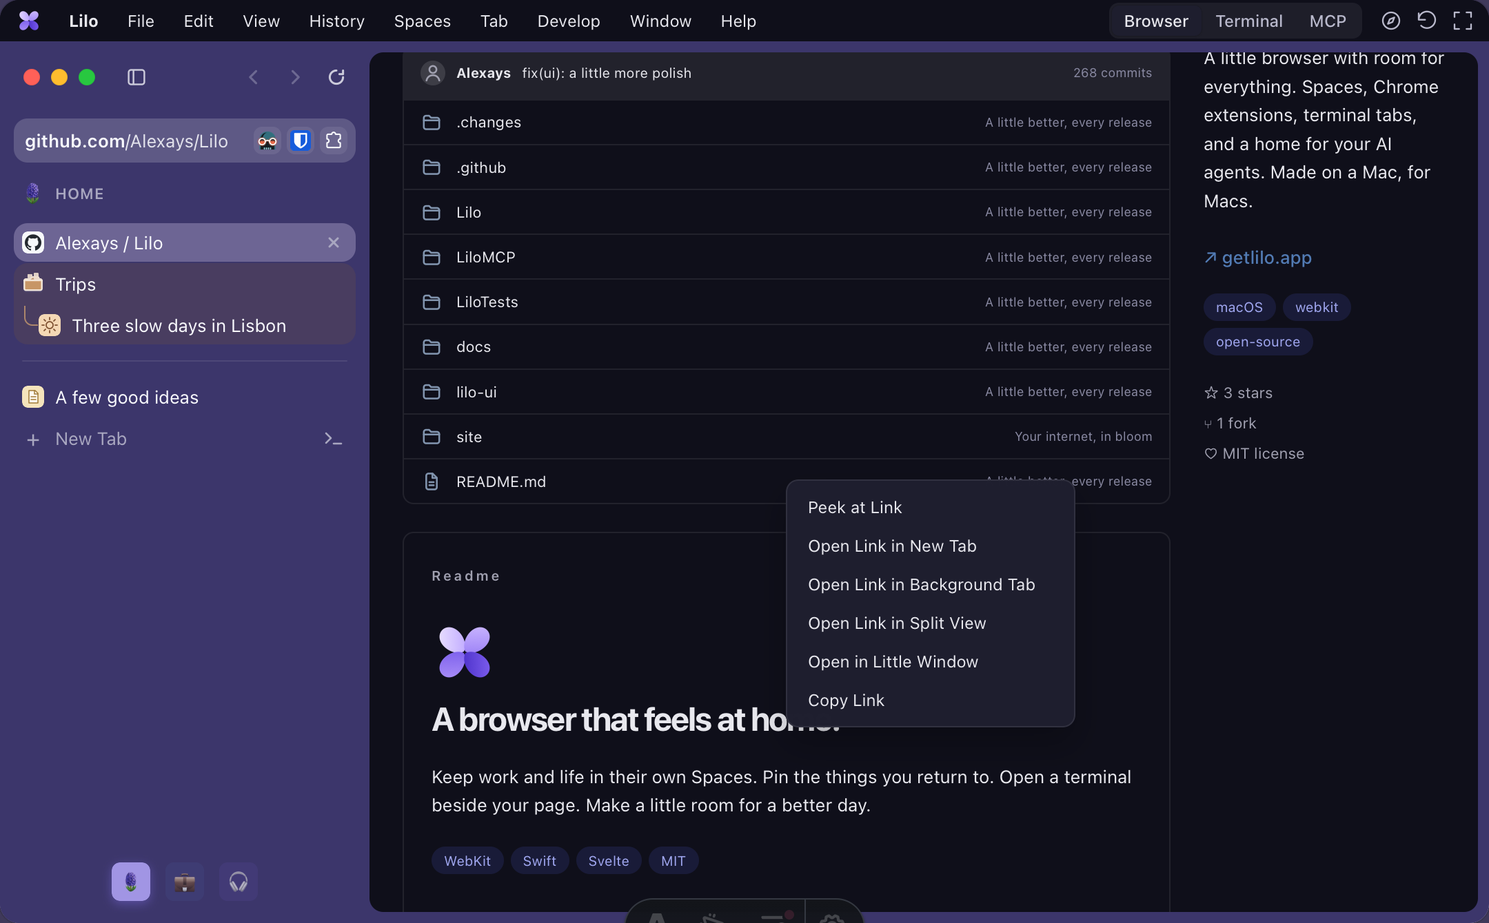
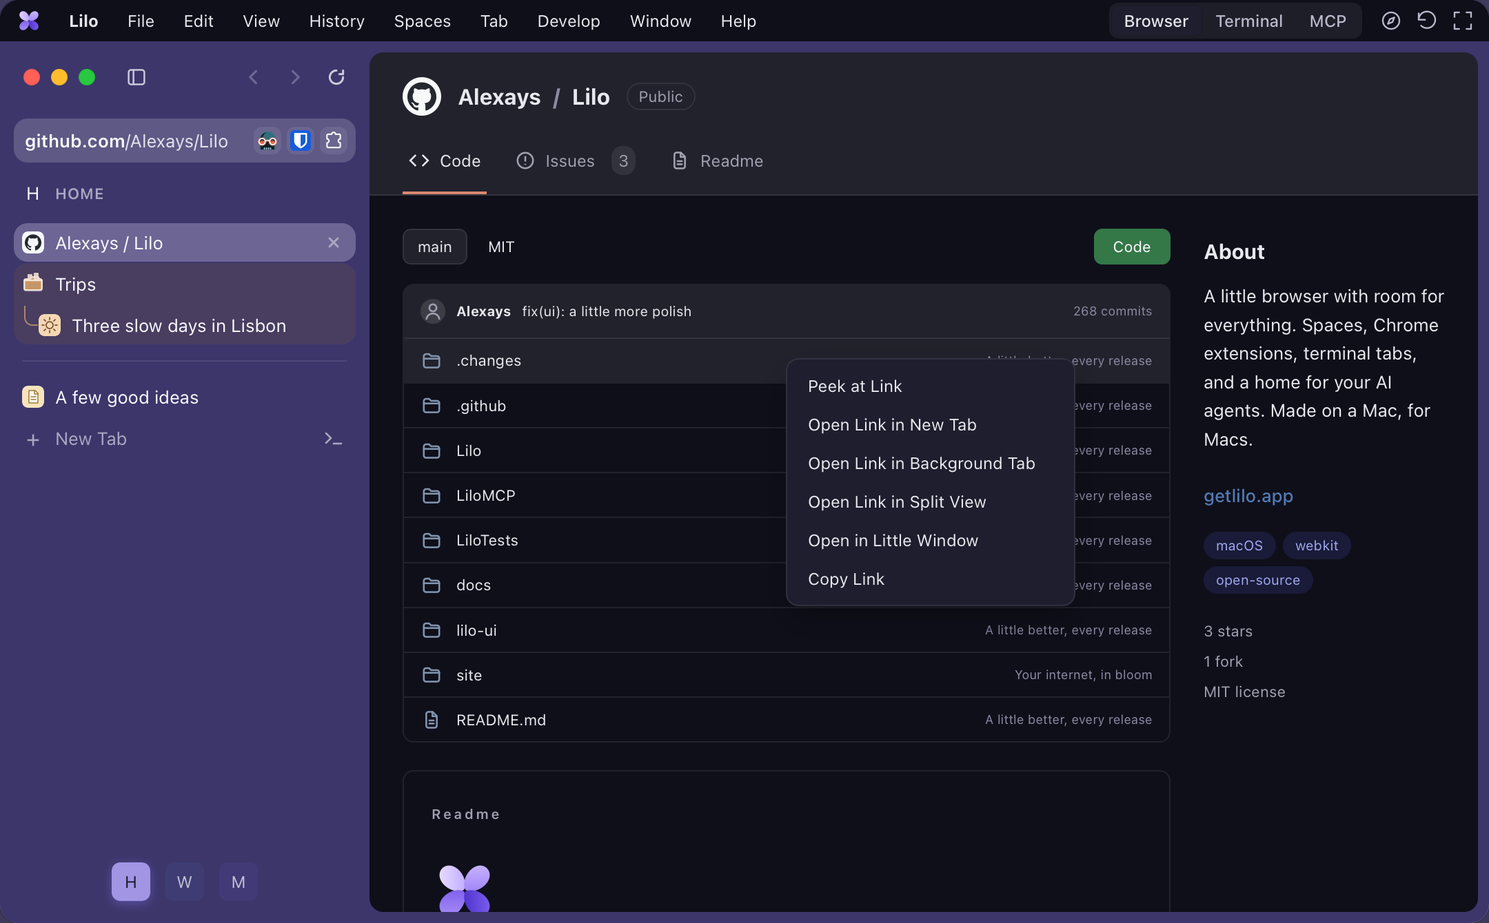
fix(site): stabilize link menus and simplify demo pages (#76)
* fix(site): keep demo link menus open in WebKit

* style(site): remove decorative emoji from demo pages

diff --git a/site/src/demo/DemoPage.svelte b/site/src/demo/DemoPage.svelte
@@ -143,6 +143,12 @@ const pageLink = (url: string) => ({
 
 const fileURL = (name: string) => `${repoBase}/${name === "README.md" ? "blob" : "tree"}/main/${encodeURIComponent(name)}`;
 
+const dismissLinkMenu = (event: PointerEvent) => {
+  if (linkMenu.matches(":popover-open") && event.target instanceof Node && !linkMenu.contains(event.target)) {
+    linkMenu.hidePopover();
+  }
+};
+
 const linkMenuKey = (event: KeyboardEvent) => {
   if (event.key === "Escape" || event.key === "Tab") {
     event.preventDefault();
@@ -184,6 +190,8 @@ else {visit(buildSearchURL(value, preferences.searchEngine));}
 
 </script>
 
+<svelte:window onpointerdown={dismissLinkMenu} />
+
 <div class="page" class:terminal-page={kind === "terminal"} style:zoom={zoom} style:height={`${100 / zoom}%`} style:--demo-minimum-font={`${minimumFont}px`} style:font-size={`max(14px, ${minimumFont}px)`}>
   {#if kind === "repo"}
     <div class="repo-top"><img class="repo-mark" src={host.faviconFor(tab.url)} alt="" width="28" height="28" /><b>Alexays <span>/</span> Lilo</b><span class="repo-public">Public</span></div>
@@ -200,11 +208,11 @@ else {visit(buildSearchURL(value, preferences.searchEngine));}
             <label class="issue"><input type="checkbox" bind:checked={completed[index]} /><span class:done={completed[index]}>{issue}</span><small>#{index + 1}</small></label>
           {/each}
         {:else if file}
-          <a class="back-link" {...pageLink(repoBase)}>‹ {text.files}</a>
+          <a class="back-link" {...pageLink(repoBase)}>{text.files}</a>
           <h2>{file}</h2><pre class="file-content">{file === "README.md" ? `# Lilo\n\n${text.repoBody}` : `${file}/\n\n${text.repoReadme}\n\nSwift · Svelte · WebKit`}</pre>
         {:else}
           {#if repoSection === "code"}
-            <div class="repo-toolbar"><span class="branch">⑂ main⌄</span><span>MIT</span><button class="code-button" onclick={() => host.showNotice()}>〈〉 {text.code}⌄</button></div>
+            <div class="repo-toolbar"><span class="branch">main</span><span>MIT</span><button class="code-button" onclick={() => host.showNotice()}>{text.code}</button></div>
             <div class="file-list">
               <div class="commit"><span class="avatar" aria-hidden="true"><SettingsIcon name="person" /></span><b>Alexays</b><span>fix(ui): a little more polish</span><small>268 commits</small></div>
               {#each files as name (name)}
@@ -215,7 +223,7 @@ else {visit(buildSearchURL(value, preferences.searchEngine));}
           <article class="readme"><span class="eyebrow">{text.readme}</span><div class="flower"><Fleuron size={48} /></div><h1>{text.repoReadme}</h1><p>{text.repoBody}</p><div class="repo-badges"><span>WebKit</span><span>Swift</span><span>Svelte</span><span>MIT</span></div></article>
         {/if}
       </div>
-      <aside><h3>{text.about}</h3><p>{text.repoAbout}</p><a class="repo-home-link" {...pageLink("https://getlilo.app")}>↗ getlilo.app</a><div class="repo-topics"><span>macOS</span><span>webkit</span><span>open-source</span></div><p class="repo-stat">☆ 3 stars<br />⑂ 1 fork<br />♡ MIT license</p></aside>
+      <aside><h3>{text.about}</h3><p>{text.repoAbout}</p><a class="repo-home-link" {...pageLink("https://getlilo.app")}>getlilo.app</a><div class="repo-topics"><span>macOS</span><span>webkit</span><span>open-source</span></div><p class="repo-stat">3 stars<br />1 fork<br />MIT license</p></aside>
     </div>
   {:else if kind === "travel"}
     <div class="travel-cover"><span class="travel-site">SLOW TRAVEL</span><span class="sun" aria-hidden="true"></span><div class="hills" aria-hidden="true"></div><div class="travel-heading"><span>{text.articleMeta}</span><h1>{text.article}</h1><p>{text.articleSubtitle}</p></div></div>
@@ -223,7 +231,7 @@ else {visit(buildSearchURL(value, preferences.searchEngine));}
   {:else if kind === "notes"}
     <article class="notes"><span class="eyebrow">NOTES</span><h1>{text.notes}</h1><textarea aria-label={text.editor} bind:value={note} oninput={saveNote} placeholder={text.notePlaceholder}></textarea><small>{text.saved}</small></article>
   {:else if kind === "music"}
-    <article class="music"><div class="album" aria-hidden="true"><span>♫</span><small>AFTER HOURS</small></div><span class="eyebrow">RADIO</span><h1>{text.playlist}</h1><p>{text.playlistSubtitle}</p><button class="play-button" aria-label={playing ? text.pause : text.play} aria-pressed={playing} onclick={() => { playing = !playing; }}>{playing ? "Ⅱ" : "▶"}</button><ol>{#each [text.trackOne, text.trackTwo, text.trackThree] as title, index (index)}<li><button class:track-selected={track === index} onclick={() => { track = index; playing = true; }}><span>0{index + 1}</span><b>{title}</b><small>{["3:42", "4:18", "5:06"][index]}</small></button></li>{/each}</ol></article>
+    <article class="music"><div class="album" aria-hidden="true"><small>AFTER HOURS</small></div><span class="eyebrow">RADIO</span><h1>{text.playlist}</h1><p>{text.playlistSubtitle}</p><button class="play-button" aria-label={playing ? text.pause : text.play} aria-pressed={playing} onclick={() => { playing = !playing; }}>{#if playing}<svg viewBox="0 0 20 20" width="20" height="20" fill="currentColor" aria-hidden="true"><rect x="5" y="4" width="3" height="12" rx="1" /><rect x="12" y="4" width="3" height="12" rx="1" /></svg>{:else}<SettingsIcon name="play" />{/if}</button><ol>{#each [text.trackOne, text.trackTwo, text.trackThree] as title, index (index)}<li><button class:track-selected={track === index} onclick={() => { track = index; playing = true; }}><span>0{index + 1}</span><b>{title}</b><small>{["3:42", "4:18", "5:06"][index]}</small></button></li>{/each}</ol></article>
   {:else if kind === "board"}
     <article class="board"><span class="eyebrow">STUDIO / {text.projects}</span><h1>{text.board}</h1><p>{text.boardSubtitle}</p>{#each [text.issueOne, text.issueTwo, text.issueThree] as issue, index (index)}<label class="issue"><input type="checkbox" bind:checked={completed[index]} /><span class:done={completed[index]}>{issue}</span><small>{completed[index] ? text.done : text.todo}</small></label>{/each}</article>
   {:else if kind === "terminal"}
@@ -251,8 +259,8 @@ else {visit(buildSearchURL(value, preferences.searchEngine));}
   {/if}
 </div>
 
-<!-- A popover keeps link actions above modal previews. -->
-<div class="page-link-menu" popover="auto" role="menu" aria-label={text.linkMenu} tabindex="-1" bind:this={linkMenu} style:left={`${menuPosition.x}px`} style:top={`${menuPosition.y}px`} onkeydown={linkMenuKey}>
+<!-- Manual dismissal prevents WebKit from closing the menu on the opening right-button release. -->
+<div class="page-link-menu" popover="manual" role="menu" aria-label={text.linkMenu} tabindex="-1" bind:this={linkMenu} style:left={`${menuPosition.x}px`} style:top={`${menuPosition.y}px`} onkeydown={linkMenuKey}>
   {#each linkActions as item (item.action)}<button type="button" role="menuitem" onclick={() => openLink(item.action)}>{item.label}</button>{/each}
 </div>
 
@@ -292,8 +300,8 @@ else {visit(buildSearchURL(value, preferences.searchEngine));}
   .days button { background: var(--bg-hover); border: 1px solid transparent; border-radius: 9px; text-align: left; padding: 14px 10px; color: var(--text-primary); } .days button.selected { border-color: #bb9fbd; background: var(--accent-tint-14); } .days span { display: block; font: 9px/2 -apple-system, sans-serif; text-transform: uppercase; letter-spacing: 1px; color: var(--text-secondary); } .days b { font-size: max(13px, var(--demo-minimum-font, 0px)); font-weight: 500; }
   .notes, .board { max-width: 650px; margin: auto; padding: 60px 44px; } .notes textarea { display: block; width: 100%; min-height: 320px; resize: vertical; color: var(--text-primary); background: transparent; border: 0; border-top: 1px solid var(--border); padding: 22px 0; font: 18px/1.8 ui-serif, Georgia, serif; } .notes small { color: var(--text-muted); font-size: max(11px, var(--demo-minimum-font, 0px)); }
   .issue { display: flex; align-items: center; gap: 12px; border-bottom: 1px solid var(--border); padding: 16px 0; font-size: max(13px, var(--demo-minimum-font, 0px)); cursor: pointer; } .issue input { accent-color: var(--accent); width: 16px; height: 16px; } .issue small { margin-left: auto; color: var(--text-muted); font-size: max(10px, var(--demo-minimum-font, 0px)); } .issue .done { text-decoration: line-through; color: var(--text-secondary); }
-  .music { max-width: 480px; margin: auto; padding: 38px 36px; text-align: center; } .album { position: relative; display: grid; place-content: center; gap: 10px; width: 160px; aspect-ratio: 1; margin: 0 auto 25px; background: radial-gradient(ellipse at 70% 20%, #d8a8b9, transparent 60%), linear-gradient(145deg, #5e568b, #333b58 70%); color: #f1e8fa; border-radius: 8px; box-shadow: 0 16px 28px -14px #29203c80; } .album > span { font-size: max(50px, var(--demo-minimum-font, 0px)); } .album small { font-size: max(8px, var(--demo-minimum-font, 0px)); letter-spacing: 3px; } .music h1 { margin-bottom: 10px; font-size: max(27px, var(--demo-minimum-font, 0px)); } .music p { color: var(--text-secondary); font-size: max(12px, var(--demo-minimum-font, 0px)); }
-  .play-button { width: 40px; height: 40px; border: 0; border-radius: 50%; background: var(--text-primary); color: var(--bg-primary); } .music ol { list-style: none; padding: 0; margin: 24px 0 0; } .music li button { display: flex; gap: 18px; align-items: center; width: 100%; border: 0; border-radius: 6px; padding: 12px; background: transparent; color: var(--text-secondary); font-size: max(12px, var(--demo-minimum-font, 0px)); } .music li button.track-selected { background: var(--bg-hover); color: var(--accent-ink); } .music li small { margin-left: auto; font-size: max(10px, var(--demo-minimum-font, 0px)); }
+  .music { max-width: 480px; margin: auto; padding: 38px 36px; text-align: center; } .album { position: relative; display: grid; place-content: center; gap: 10px; width: 160px; aspect-ratio: 1; margin: 0 auto 25px; background: radial-gradient(ellipse at 70% 20%, #d8a8b9, transparent 60%), linear-gradient(145deg, #5e568b, #333b58 70%); color: #f1e8fa; border-radius: 8px; box-shadow: 0 16px 28px -14px #29203c80; } .album small { font-size: max(8px, var(--demo-minimum-font, 0px)); letter-spacing: 3px; } .music h1 { margin-bottom: 10px; font-size: max(27px, var(--demo-minimum-font, 0px)); } .music p { color: var(--text-secondary); font-size: max(12px, var(--demo-minimum-font, 0px)); }
+  .play-button { display: inline-grid; place-items: center; width: 40px; height: 40px; border: 0; border-radius: 50%; background: var(--text-primary); color: var(--bg-primary); } .music ol { list-style: none; padding: 0; margin: 24px 0 0; } .music li button { display: flex; gap: 18px; align-items: center; width: 100%; border: 0; border-radius: 6px; padding: 12px; background: transparent; color: var(--text-secondary); font-size: max(12px, var(--demo-minimum-font, 0px)); } .music li button.track-selected { background: var(--bg-hover); color: var(--accent-ink); } .music li small { margin-left: auto; font-size: max(10px, var(--demo-minimum-font, 0px)); }
   .start { display: grid; justify-items: center; text-align: center; max-width: 620px; margin: auto; padding: 65px 36px; } .start h1 { font-size: max(31px, var(--demo-minimum-font, 0px)); margin-bottom: 12px; } .start p { max-width: 46ch; color: var(--text-secondary); font-size: max(13px, var(--demo-minimum-font, 0px)); } .start .flower { margin-top: 0; }
   .search { display: flex; width: 100%; max-width: 430px; background: var(--bg-hover); border: 1px solid var(--border); border-radius: 12px; padding: 5px 8px 5px 16px; margin: 8px 0 30px; box-shadow: 0 4px 12px #00000005; } .search input { flex: 1; width: 0; padding: 7px 0; background: transparent; border: 0; color: var(--text-primary); font-size: max(12px, var(--demo-minimum-font, 0px)); } .search button { background: transparent; color: var(--text-secondary); border: 0; padding: 0 8px; }
   .quick-links { display: grid; grid-template-columns: repeat(4, 1fr); gap: 16px; width: 100%; max-width: 430px; } .quick-links a { text-decoration: none; display: grid; justify-items: center; gap: 9px; border: 0; background: transparent; color: var(--text-secondary); font-size: max(10px, var(--demo-minimum-font, 0px)); } .quick-links i { display: grid; place-items: center; border-radius: 12px; width: 43px; height: 43px; background: var(--bg-hover); } .quick-links img { display: block; border-radius: 8px; } .settings-link { margin-top: 36px; font-size: max(11px, var(--demo-minimum-font, 0px)); background: none; color: var(--text-secondary); border: 0; padding: 8px; }

diff --git a/site/src/demo/DemoLaunch.svelte b/site/src/demo/DemoLaunch.svelte
@@ -19,8 +19,8 @@
 </script>
 
 <article class="launch-page">
-  <header><span class="project-icon" aria-hidden="true">↗</span><span>Studio</span><span class="crumb" aria-hidden="true">/</span><span>{text.agentProject}</span></header>
-  <div class="project-cover" aria-hidden="true"><span>✳</span></div>
+  <header><span>Studio</span><span class="crumb" aria-hidden="true">/</span><span>{text.agentProject}</span></header>
+  <div class="project-cover" aria-hidden="true"></div>
   <div class="project-body">
     <span class="eyebrow">Studio / 01</span>
     <h1>{text.agentProject}</h1>
@@ -33,7 +33,7 @@
     <section class="project-update">
       <label for={`update-${tabId}`}>{text.agentUpdate}</label>
       <textarea id={`update-${tabId}`} aria-label={text.agentUpdate} bind:value={project.update} oninput={() => { project.published = false; }} rows="4" spellcheck="false"></textarea>
-      <div class="publish-row"><span class="published" role="status">{#if project.published}<span aria-hidden="true">✓</span> {text.agentPublished}{/if}</span><button type="button" data-agent-approval disabled={!complete || !project.update.trim() || project.published} onclick={() => { project.published = true; }}>{text.agentPublish}<span aria-hidden="true">↗</span></button></div>
+      <div class="publish-row"><span class="published" role="status">{#if project.published}<span aria-hidden="true">✓</span> {text.agentPublished}{/if}</span><button type="button" data-agent-approval disabled={!complete || !project.update.trim() || project.published} onclick={() => { project.published = true; }}>{text.agentPublish}</button></div>
     </section>
   </div>
 </article>
@@ -41,10 +41,8 @@
 <style>
   .launch-page { min-height: 100%; font: 12px/1.5 -apple-system, BlinkMacSystemFont, "Segoe UI", sans-serif; }
   header { display: flex; gap: 9px; align-items: center; padding: 14px 20px; border-bottom: 1px solid var(--border); color: var(--text-secondary); font-size: 11px; }
-  .project-icon { display: grid; place-items: center; width: 20px; height: 20px; border-radius: 5px; background: #d977571a; color: #c86d50; font-size: 15px; }
   .crumb { color: var(--text-muted); }
   .project-cover { position: relative; height: 95px; overflow: hidden; background: color-mix(in srgb, #b7c3ad 24%, var(--bg-primary)); }
-  .project-cover span { position: absolute; right: 30px; top: -20px; color: #a0b494; font-size: 140px; line-height: 1; transform: rotate(-12deg); }
   .project-body { max-width: 620px; margin: 0 auto; padding: 24px; }
   .eyebrow { color: var(--text-muted); font-size: 10px; text-transform: uppercase; letter-spacing: 1px; }
   h1 { margin: 6px 0 24px; font-size: 26px; font-weight: 650; line-height: 1.2; letter-spacing: -.7px; }

diff --git a/site/tests/demo/links.spec.ts b/site/tests/demo/links.spec.ts
@@ -84,7 +84,7 @@ test("link menus support keyboard navigation and work inside Peek and Little win
   const peek = frame.getByRole("dialog", { exact: true, name: "Peek" });
   await expect(peek.locator(".repo-top")).toBeVisible();
   await peek
-    .getByRole("link", { exact: true, name: "↗ getlilo.app" })
+    .getByRole("link", { exact: true, name: "getlilo.app" })
     .click({ button: "right" });
   await menu
     .getByRole("menuitem", { exact: true, name: "Open in Little Window" })
@@ -190,6 +190,40 @@ test("French link actions fit a narrow preview and support keyboard Peek", async
   ).toBe(true);
 });
 
+test("folder link menus stay open after releasing a right-click", async ({
+  page,
+}) => {
+  await page.goto("/#browser-demo");
+  const frame = page.frameLocator("#browser-demo iframe");
+  const folder = frame.locator('.file-list a[href$="/tree/main/.changes"]');
+  await folder.click({ button: "right" });
+  const menu = frame.getByRole("menu", { exact: true, name: "Link actions" });
+  await expect(menu).toBeVisible();
+
+  const littleAction = menu.getByRole("menuitem", {
+    exact: true,
+    name: "Open in Little Window",
+  });
+
+  await littleAction.hover();
+  await expect(menu).toBeVisible();
+  await frame.locator(".repo-top").click();
+  await expect(menu).toBeHidden();
+  await folder.click({ button: "right" });
+  await page.keyboard.press("Escape");
+  await expect(menu).toBeHidden();
+  await expect(folder).toBeFocused();
+  await folder.click({ button: "right" });
+  await littleAction.click();
+
+  const little = frame.getByRole("dialog", {
+    exact: true,
+    name: "Little window",
+  });
+
+  await expect(little.locator(".file-content")).toContainText(".changes/");
+});
+
 test("repository files and folders support link actions and local navigation history", async ({
   page,
 }) => {
@@ -208,7 +242,7 @@ test("repository files and folders support link actions and local navigation his
     .getByRole("menuitem", { exact: true, name: "Open Link in New Tab" })
     .click();
   await expect(frame.locator(".file-content")).toContainText("docs/");
-  await frame.getByRole("link", { exact: true, name: "‹ Files" }).click();
+  await frame.getByRole("link", { exact: true, name: "Files" }).click();
   await expect(frame.locator(".file-list")).toBeVisible();
   await frame.getByRole("button", { exact: true, name: "Go back" }).click();
   await expect(frame.locator(".file-content")).toContainText("docs/");

diff --git a/site/src/demo/DemoExplore.svelte b/site/src/demo/DemoExplore.svelte
@@ -33,7 +33,7 @@
       <nav aria-label={text.explore}><input type="search" aria-label={text.exploreSearch} placeholder={text.exploreSearch} bind:value={query} />
         <div class="feature-list">{#each features as item (item.id)}<button type="button" class:selected={feature?.id === item.id} aria-pressed={feature?.id === item.id} onclick={() => { selected = item.id; }}><span>{item.title}</span>{#if item.mac}<small>macOS</small>{/if}</button>{/each}</div>
       </nav>
-      <div class="feature-detail">{#if feature}<span class="feature-index" aria-hidden="true">✳</span>{#if feature.mac}<span class="platform">{text.exploreMac}</span>{/if}<h3>{feature.title}</h3><p>{feature.description}</p>{#if feature.mac}<p class="platform-note">{text.exploreMacNote}</p>{/if}<button class="try-feature" type="button" onclick={() => onselect(feature.id)}>{feature.mac ? text.exploreSettings : text.exploreOpen}<span aria-hidden="true">↗</span></button>{:else}<p>{text.exploreEmpty}</p>{/if}</div>
+      <div class="feature-detail">{#if feature}{#if feature.mac}<span class="platform">{text.exploreMac}</span>{/if}<h3>{feature.title}</h3><p>{feature.description}</p>{#if feature.mac}<p class="platform-note">{text.exploreMacNote}</p>{/if}<button class="try-feature" type="button" onclick={() => onselect(feature.id)}>{feature.mac ? text.exploreSettings : text.exploreOpen}</button>{:else}<p>{text.exploreEmpty}</p>{/if}</div>
     </div>
   </dialog>
 
@@ -54,7 +54,6 @@
   .feature-list button.selected { background: var(--bg-selected); font-weight: 600; }
   small { flex: none; font-size: 8px; color: var(--text-muted); font-weight: 400; }
   .feature-detail { flex: 1; min-width: 0; overflow: auto; padding: 30px; }
-  .feature-index { display: grid; place-items: center; width: 56px; height: 56px; margin-bottom: 24px; border-radius: 15px; background: var(--bg-hover); color: #9984c8; font-size: 40px; }
   h3 { font-size: 23px; line-height: 1.2; letter-spacing: -.5px; margin: 8px 0 15px; font-weight: 600; }
   p { margin: 0 0 18px; color: var(--text-secondary); line-height: 1.7; }
   .platform { color: var(--text-muted); font-size: 10px; }

diff --git a/site/src/demo/host.ts b/site/src/demo/host.ts
@@ -1007,7 +1007,7 @@ export const createDemoHost = (
 
     const space = {
       color: "#d38d64",
-      icon: "🤖",
+      icon: text().agents[0],
       id: "playground-agents",
       isPrivate: false,
       name: text().agents,
@@ -2105,7 +2105,7 @@ export const createDemoHost = (
         archiveAfterHours: 12,
         color: payload.color || "#7868d8",
         colorMode: payload.colorMode ?? "fixed",
-        icon: payload.icon || "🌐",
+        icon: payload.icon || (payload.name || text().newSpace)[0],
         id: idFor("space"),
         isPrivate: payload.isPrivate === true,
         name: payload.name || text().newSpace,
@@ -2532,7 +2532,7 @@ export const createDemoHost = (
           target = existing ?? {
             archiveAfterHours: 12,
             color: targetProfile.color,
-            icon: "🌐",
+            icon: profile.name[0],
             id: idFor("space"),
             isPrivate: false,
             name: profile.name,
@@ -3085,7 +3085,7 @@ export const createDemoHost = (
       } else {
         commands.createSpace?.({
           color: "#3f4656",
-          icon: "🔒",
+          icon: "P",
           isPrivate: true,
           name: nativeCopy(settings.locale === "fr" ? "fr" : "en")("Private"),
         });

diff --git a/site/src/demo/DemoMcp.svelte b/site/src/demo/DemoMcp.svelte
@@ -77,7 +77,7 @@
     {/each}</ol>
   {/if}
   <div class="session-state" role="status" aria-live="polite">{session.status === "waiting" ? text.agentPermission : finalMessage}</div>
-  <div class="session-actions">{#if active}<button class="stop" type="button" onclick={() => agent.stop()}><span aria-hidden="true">■</span>{text.agentStop}</button>{:else}<button class="run" type="button" disabled={!ready || !enabled} onclick={() => { details = false; void agent.start(); }}>{session.status === "idle" ? text.agentRun : text.agentAgain}<span aria-hidden="true">↗</span></button>{/if}</div>
+  <div class="session-actions">{#if active}<button class="stop" type="button" onclick={() => agent.stop()}><span aria-hidden="true">■</span>{text.agentStop}</button>{:else}<button class="run" type="button" disabled={!ready || !enabled} onclick={() => { details = false; void agent.start(); }}>{session.status === "idle" ? text.agentRun : text.agentAgain}</button>{/if}</div>
   <details bind:open={details} inert={active}><summary>{text.agentDetails}<span aria-hidden="true">⌘</span></summary>{#if details}<DemoTools {host} {locale} />{/if}</details>
 </section>
 

diff --git a/site/tests/demo/browser.spec.ts b/site/tests/demo/browser.spec.ts
@@ -195,7 +195,7 @@ test("sample content and native-only actions never request an external website",
     }
   });
   const demo = await openDemo(page);
-  await demo.getByRole("link", { name: "↗ getlilo.app" }).click();
+  await demo.getByRole("link", { name: "getlilo.app" }).click();
   await expect(
     demo.getByRole("heading", { name: "A little space for your internet." })
   ).toBeVisible();
@@ -225,7 +225,7 @@ test("the second split pane owns its navigation and leaves the first pane intact
   await demo
     .locator(".sample-pane")
     .nth(1)
-    .getByRole("link", { name: "↗ getlilo.app" })
+    .getByRole("link", { name: "getlilo.app" })
     .click();
   await expect(
     demo

diff --git a/site/src/demo/world.ts b/site/src/demo/world.ts
@@ -117,7 +117,7 @@ export const sampleWorld = (
   const spaces: BridgeSpaceSnapshot[] = [
     {
       color: "#7868d8",
-      icon: "🪻",
+      icon: text.personal[0],
       id: "home",
       isPrivate: false,
       name: text.personal,
@@ -126,7 +126,7 @@ export const sampleWorld = (
     },
     {
       color: "#4e7bbf",
-      icon: "💼",
+      icon: text.work[0],
       id: "work",
       isPrivate: false,
       name: text.work,
@@ -135,7 +135,7 @@ export const sampleWorld = (
     },
     {
       color: "#b36a91",
-      icon: "🎧",
+      icon: text.music[0],
       id: "music",
       isPrivate: false,
       name: text.music,

diff --git a/site/tests/demo/explore.spec.ts b/site/tests/demo/explore.spec.ts
@@ -71,7 +71,7 @@ test("Peek preserves the pinned page and can expand its preview into a tab", asy
   await page.goto("/#browser-demo");
   const frame = page.frameLocator("#browser-demo iframe");
   await expect(frame.locator(".repo-top")).toBeVisible();
-  await frame.getByRole("link", { exact: true, name: "↗ getlilo.app" }).click();
+  await frame.getByRole("link", { exact: true, name: "getlilo.app" }).click();
   const peek = frame.getByRole("dialog", { exact: true, name: "Peek" });
   await expect(peek).toBeVisible();
   await expect(

diff --git a/site/README.md b/site/README.md
@@ -15,6 +15,7 @@ make site-check         # Check lint, formatting, Astro templates and TypeScript
 make site-fix           # Fix lint and formatting with Ultracite
 make site-test          # Build, then test release notes, routes, links and metadata
 make site-e2e           # Test the interactive demo in Chromium with production headers
+make site-e2e SITE_E2E_ARGS='--browser=webkit tests/demo/links.spec.ts' # Check link actions in WebKit
 make site-deploy-check  # Check Cloudflare deployment without publishing
 ```
 
